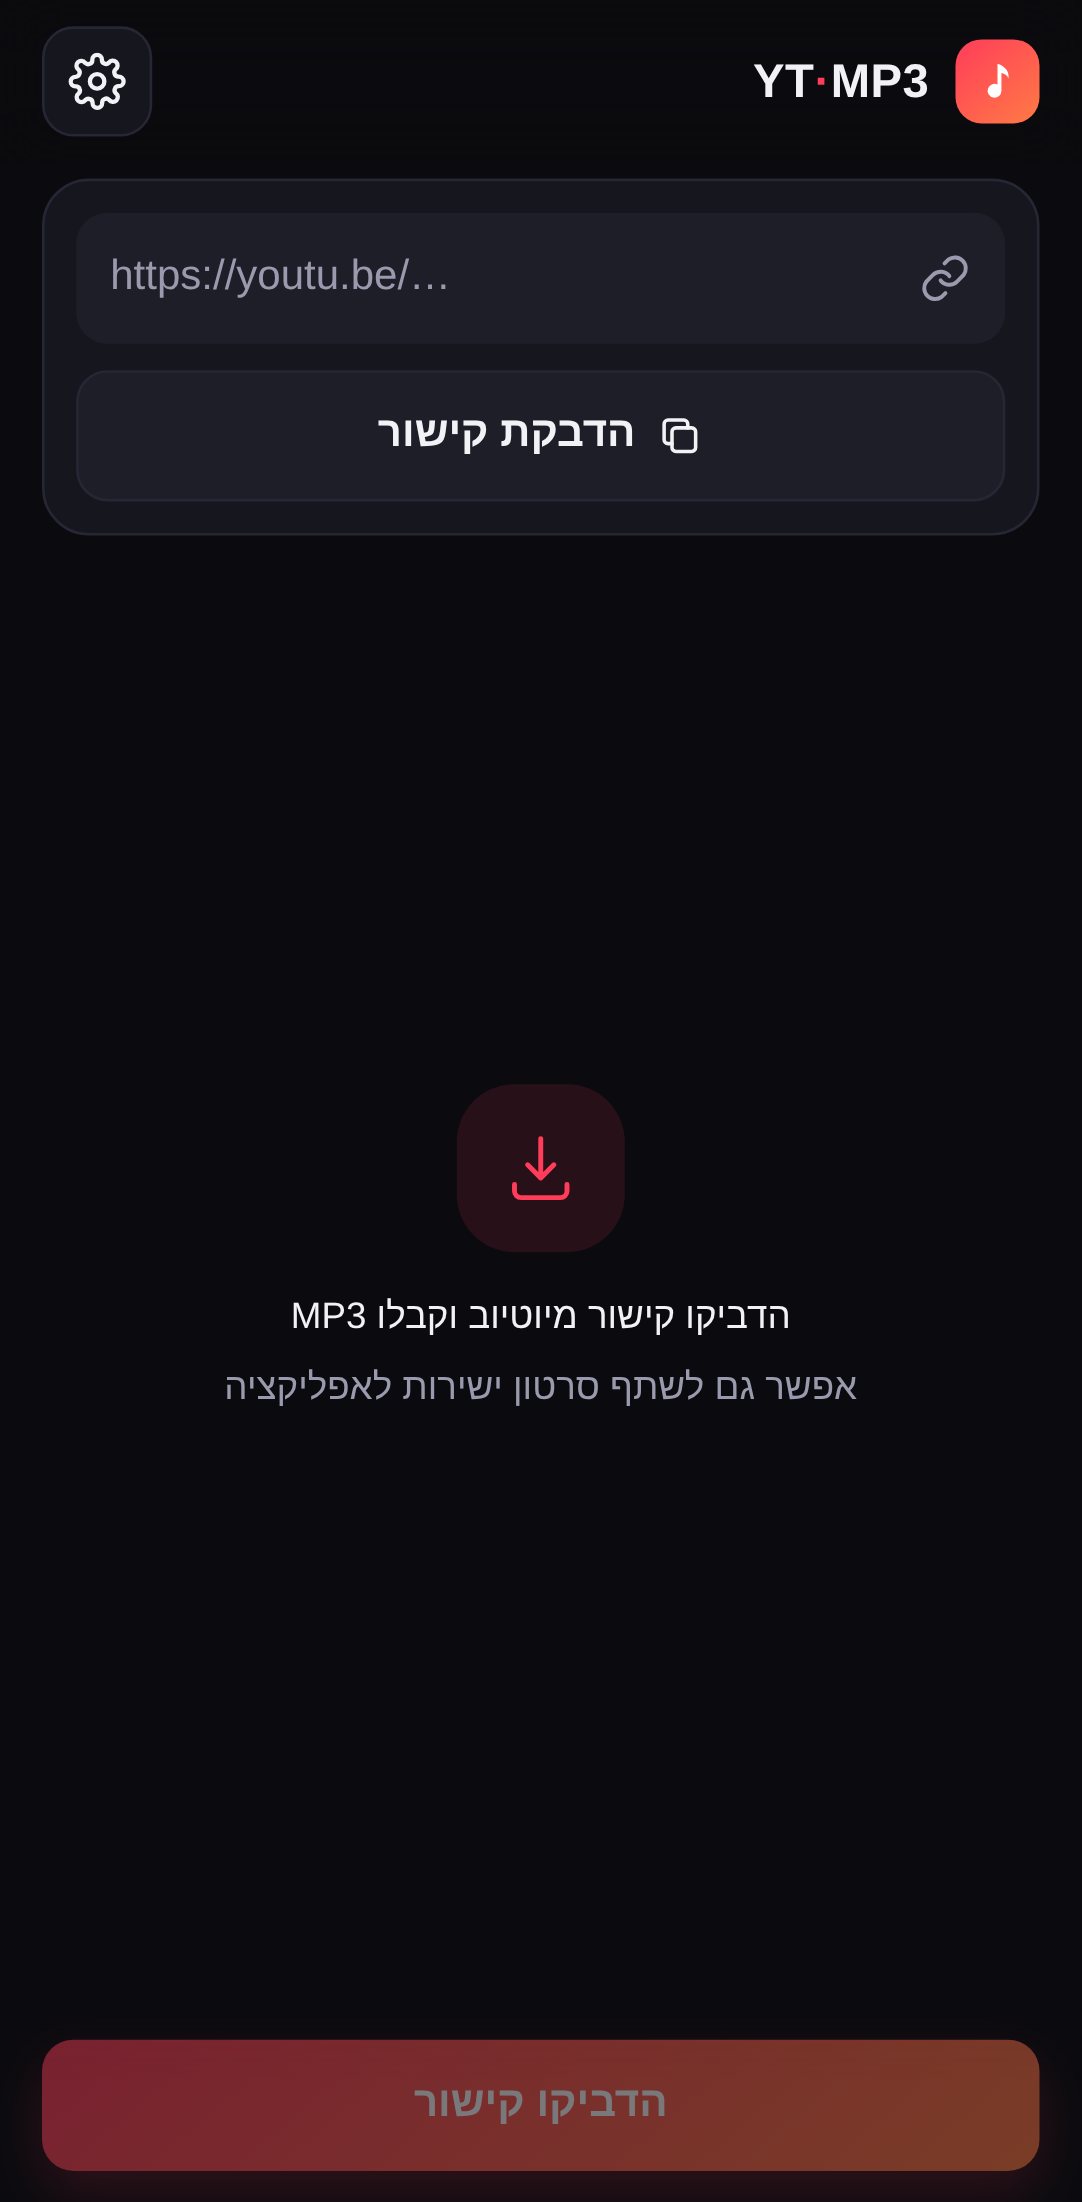
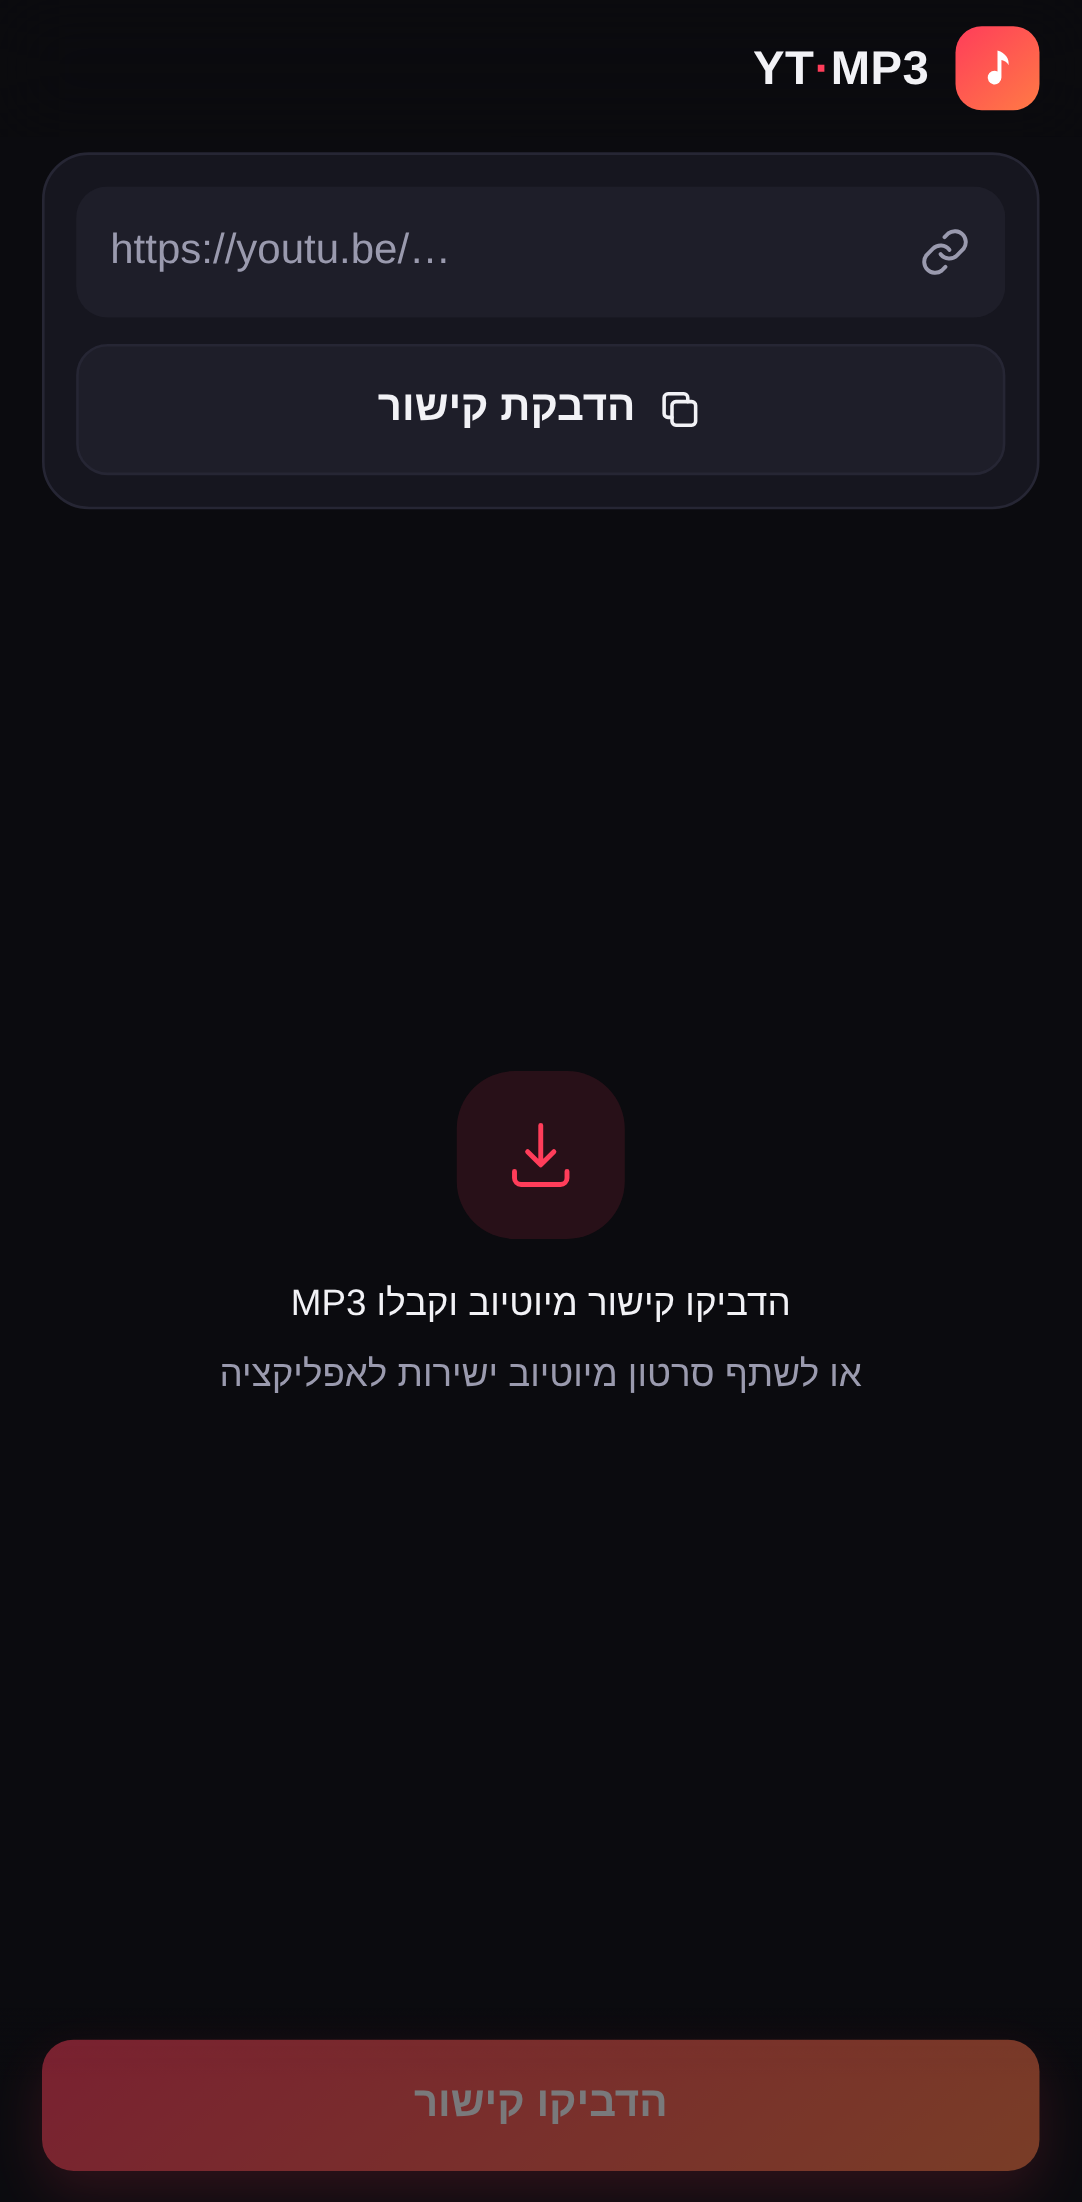
Open the function to anonymous callers and drop all configuration
/api/health answered 403: the deployed function had no public invoker, so
Google rejected the browser's unauthenticated request before it reached any
code. That is why the app could never find its backend. The entry point now
declares invoker="public".

With the backend reachable there is nothing left for anyone to configure,
so the settings sheet, the gear and the stored server address are gone. The
app resolves its backend on its own: same origin first, then the function's
own URL if that route is not answering. Both paths, and a 403 or 404 on the
first one, are covered by browser tests that download a file end to end.

GitHub Pages is removed — the project is deployed on Firebase now, and
carrying a second target only invited the two to drift.

Claude-Session: https://claude.ai/code/session_01S3WUYMwYECv2DU9D2bYLBs

diff --git a/web/js/app.js b/web/js/app.js
@@ -16,20 +16,17 @@
     empty: $('empty'), history: $('history'), histList: $('hist-list'),
     clearHistory: $('btn-clear-history'),
     main: $('btn-main'), mainLabel: $('btn-main-label'),
-    sheet: $('sheet'), scrim: $('sheet-scrim'), settings: $('btn-settings'),
-    server: $('server'), serverStatus: $('server-status'),
-    test: $('btn-test'), save: $('btn-save'),
     toast: $('toast'),
   };
 
-  const LS = { server: 'ytmp3.server', bitrate: 'ytmp3.bitrate', history: 'ytmp3.history' };
+  const LS = { bitrate: 'ytmp3.bitrate', history: 'ytmp3.history' };
 
   // Deployed backend, used if the same-origin route is not answering. Keeping it
   // here means the app still works when only one of the two paths is healthy.
   const FALLBACK_API = 'https://api-wdmkdg3ysa-uc.a.run.app';
 
   const state = {
-    server: localStorage.getItem(LS.server) || '',
+    server: '',
     bitrate: localStorage.getItem(LS.bitrate) || '192',
     info: null,
     job: null,
@@ -81,7 +78,6 @@
   }
 
   async function api(path, options = {}) {
-    if (!state.server) throw new Error('לא הוגדרה כתובת שרת. פתחו את ההגדרות ⚙');
     const ctrl = new AbortController();
     const timer = setTimeout(() => ctrl.abort(), options.timeout || 45000);
     try {
@@ -95,7 +91,7 @@
       return data;
     } catch (err) {
       if (err.name === 'AbortError') throw new Error('השרת לא הגיב בזמן');
-      if (err instanceof TypeError) throw new Error('אין חיבור לשרת. בדקו את הכתובת בהגדרות');
+      if (err instanceof TypeError) throw new Error('אין חיבור לשרת ההמרה. נסו שוב בעוד רגע');
       throw err;
     } finally {
       clearTimeout(timer);
@@ -282,7 +278,7 @@
       el.pgLabel.textContent = 'מתחבר לשרת';
       el.pgSub.textContent = 'מעיר את השרת — כמה שניות בפעם הראשונה';
       if (!(await loadHealth())) {
-        fail('לא הצלחנו להתחבר לשרת ההמרה. בדקו את הכתובת ב‑⚙ הגדרות');
+        fail('שרת ההמרה לא זמין כרגע. נסו שוב בעוד רגע');
         return;
       }
     }
@@ -530,45 +526,6 @@
     toast('ההיסטוריה נוקתה');
   });
 
-  /* ---------- settings sheet ---------- */
-
-  const openSheet = () => {
-    el.server.value = state.server;
-    el.serverStatus.hidden = true;
-    el.sheet.hidden = false;
-  };
-  const closeSheet = () => { el.sheet.hidden = true; };
-
-  el.settings.addEventListener('click', openSheet);
-  el.scrim.addEventListener('click', closeSheet);
-  document.addEventListener('keydown', (e) => { if (e.key === 'Escape' && !el.sheet.hidden) closeSheet(); });
-
-  el.save.addEventListener('click', () => {
-    state.server = trimApi(el.server.value);
-    localStorage.setItem(LS.server, state.server);
-    loadHealth();
-    closeSheet();
-    toast(state.server ? 'הכתובת נשמרה' : 'הכתובת נוקתה');
-    if (state.server && isUrl(el.url.value.trim())) loadInfo(el.url.value);
-  });
-
-  el.test.addEventListener('click', async () => {
-    const base = trimApi(el.server.value);
-    el.serverStatus.hidden = false;
-    el.serverStatus.className = 'sheet-status';
-    el.serverStatus.textContent = 'בודק…';
-    try {
-      const res = await fetch(`${base}/api/health`, { signal: AbortSignal.timeout(8000) });
-      const data = await res.json();
-      if (!data.ok) throw new Error('תשובה לא צפויה');
-      el.serverStatus.className = 'sheet-status ok';
-      el.serverStatus.textContent = data.ffmpeg ? 'השרת מחובר ומוכן ✓' : 'השרת מחובר, אבל ffmpeg חסר';
-    } catch {
-      el.serverStatus.className = 'sheet-status bad';
-      el.serverStatus.textContent = 'לא הצלחנו להתחבר לכתובת הזו';
-    }
-  });
-
   /* ---------- boot ---------- */
 
   function init() {
@@ -579,14 +536,11 @@
     }
     el.qualityHint.textContent = ltr(`${state.bitrate} kbps`);
 
-    // Where the backend lives: a deploy that serves both from one origin needs
-    // no setup, and localhost gets the usual dev port. Only an address the user
-    // typed themselves is persisted, so this stays correct if the app moves.
-    if (!state.server) {
-      state.server = /^(localhost|127\.0\.0\.1)$/.test(location.hostname)
-        ? `${location.protocol}//${location.hostname}:8000`
-        : location.origin;
-    }
+    // Where the backend lives. Nothing here is configurable: the deployed app
+    // serves its API from the same origin, and localhost gets the dev port.
+    state.server = /^(localhost|127\.0\.0\.1)$/.test(location.hostname)
+      ? `${location.protocol}//${location.hostname}:8000`
+      : location.origin;
 
     render();
     loadHealth();   // also wakes a cold instance, before anything is asked of it

diff --git a/web/index.html b/web/index.html
@@ -28,9 +28,6 @@
       </span>
       <h1>YT<span class="dot">·</span>MP3</h1>
     </div>
-    <button class="icon-btn" id="btn-settings" type="button" aria-label="הגדרות">
-      <svg viewBox="0 0 24 24" width="22" height="22" fill="none" stroke="currentColor" stroke-width="1.8" stroke-linecap="round" stroke-linejoin="round"><circle cx="12" cy="12" r="3"/><path d="M19.4 15a1.6 1.6 0 0 0 .3 1.8l.1.1a2 2 0 1 1-2.8 2.8l-.1-.1a1.6 1.6 0 0 0-1.8-.3 1.6 1.6 0 0 0-1 1.5V21a2 2 0 1 1-4 0v-.1A1.6 1.6 0 0 0 9 19.4a1.6 1.6 0 0 0-1.8.3l-.1.1a2 2 0 1 1-2.8-2.8l.1-.1a1.6 1.6 0 0 0 .3-1.8 1.6 1.6 0 0 0-1.5-1H3a2 2 0 1 1 0-4h.1A1.6 1.6 0 0 0 4.6 9a1.6 1.6 0 0 0-.3-1.8l-.1-.1a2 2 0 1 1 2.8-2.8l.1.1a1.6 1.6 0 0 0 1.8.3H9a1.6 1.6 0 0 0 1-1.5V3a2 2 0 1 1 4 0v.1a1.6 1.6 0 0 0 1 1.5 1.6 1.6 0 0 0 1.8-.3l.1-.1a2 2 0 1 1 2.8 2.8l-.1.1a1.6 1.6 0 0 0-.3 1.8V9a1.6 1.6 0 0 0 1.5 1H21a2 2 0 1 1 0 4h-.1a1.6 1.6 0 0 0-1.5 1Z"/></svg>
-    </button>
   </header>
 
   <main class="content" id="content">
@@ -127,7 +124,7 @@
         <svg viewBox="0 0 24 24" width="30" height="30" fill="none" stroke="currentColor" stroke-width="1.5" stroke-linecap="round" stroke-linejoin="round"><path d="M12 15V3M12 15l-4-4M12 15l4-4"/><path d="M4 17v2a2 2 0 0 0 2 2h12a2 2 0 0 0 2-2v-2"/></svg>
       </div>
       <p>הדביקו קישור מיוטיוב וקבלו MP3</p>
-      <p class="muted small">אפשר גם לשתף סרטון ישירות לאפליקציה</p>
+      <p class="muted small">או לשתף סרטון מיוטיוב ישירות לאפליקציה</p>
     </section>
 
   </main>
@@ -139,27 +136,6 @@
     </button>
   </div>
 
-</div>
-
-<!-- גיליון הגדרות -->
-<div class="sheet-root" id="sheet" hidden>
-  <div class="sheet-scrim" id="sheet-scrim"></div>
-  <div class="sheet" role="dialog" aria-modal="true" aria-labelledby="sheet-title">
-    <div class="sheet-grip" aria-hidden="true"></div>
-    <h2 id="sheet-title">הגדרות</h2>
-
-    <label class="sheet-label" for="server">כתובת השרת</label>
-    <input id="server" type="url" inputmode="url" dir="ltr" spellcheck="false"
-           autocapitalize="off" autocorrect="off" placeholder="http://localhost:8000" class="sheet-input">
-    <p class="muted small">האפליקציה סטטית ורצה ב‑GitHub Pages. את ההמרה עצמה מבצע שרת yt‑dlp קטן שאתם מריצים (ראו README).</p>
-
-    <div class="sheet-status" id="server-status" hidden></div>
-
-    <div class="sheet-actions">
-      <button class="btn btn-ghost" id="btn-test" type="button">בדיקת חיבור</button>
-      <button class="btn btn-primary" id="btn-save" type="button">שמירה</button>
-    </div>
-  </div>
 </div>
 
 <div class="toast" id="toast" role="status" aria-live="polite" hidden></div>

diff --git a/web/css/app.css b/web/css/app.css
@@ -431,69 +431,6 @@ p { margin: 0; }
 }
 .action-bar .btn { width: 100%; pointer-events: auto; font-size: 16px; }
 
-/* ---------- bottom sheet ---------- */
-
-.sheet-root { position: fixed; inset: 0; z-index: 20; }
-.sheet-scrim {
-  position: absolute;
-  inset: 0;
-  background: rgba(0, 0, 0, .5);
-  animation: fade .2s var(--ease);
-}
-@keyframes fade { from { opacity: 0; } }
-
-.sheet {
-  position: absolute;
-  inset-inline: 0;
-  bottom: 0;
-  background: var(--bg-soft);
-  border-radius: var(--r-lg) var(--r-lg) 0 0;
-  padding: 8px var(--pad) calc(20px + env(safe-area-inset-bottom));
-  box-shadow: var(--shadow);
-  animation: up .26s var(--ease);
-  max-height: 86dvh;
-  overflow-y: auto;
-}
-@keyframes up { from { transform: translateY(100%); } }
-
-.sheet-grip {
-  width: 40px; height: 4px;
-  border-radius: 99px;
-  background: var(--line);
-  margin: 4px auto 14px;
-}
-.sheet h2 { font-size: 17px; margin-bottom: 14px; }
-.sheet-label { display: block; font-size: 13px; color: var(--muted); margin-bottom: 6px; }
-
-.sheet-input {
-  width: 100%;
-  min-height: var(--tap);
-  padding: 12px 14px;
-  margin-bottom: 10px;
-  font: inherit;
-  font-size: 16px;
-  color: var(--text);
-  background: var(--surface-2);
-  border: 1.5px solid transparent;
-  border-radius: var(--r-sm);
-  outline: 0;
-  direction: ltr;
-  text-align: left;
-}
-.sheet-input:focus { border-color: var(--accent); }
-
-.sheet-status {
-  margin-top: 12px;
-  padding: 10px 12px;
-  border-radius: var(--r-sm);
-  font-size: 13px;
-  background: var(--surface-2);
-}
-.sheet-status.ok { color: var(--ok); background: color-mix(in srgb, var(--ok) 12%, transparent); }
-.sheet-status.bad { color: var(--err); background: color-mix(in srgb, var(--err) 12%, transparent); }
-
-.sheet-actions { display: grid; grid-template-columns: 1fr 1fr; gap: 10px; margin-top: 16px; }
-
 /* ---------- toast ---------- */
 
 .toast {

diff --git a/web/sw.js b/web/sw.js
@@ -1,5 +1,5 @@
 /* Offline shell for YT-MP3. Bump CACHE to ship a new version. */
-const CACHE = 'ytmp3-v4';
+const CACHE = 'ytmp3-v5';
 
 const SHELL = [
   './',

diff --git a/functions/main.py b/functions/main.py
@@ -41,6 +41,9 @@ def normalize(environ: dict) -> dict:
 
 @https_fn.on_request(
     region="us-central1",
+    # The PWA calls this anonymously from the browser; without an explicit
+    # public invoker Google answers unauthenticated requests with 403.
+    invoker="public",
     memory=options.MemoryOption.GB_1,
     timeout_sec=540,
     cpu=1,
